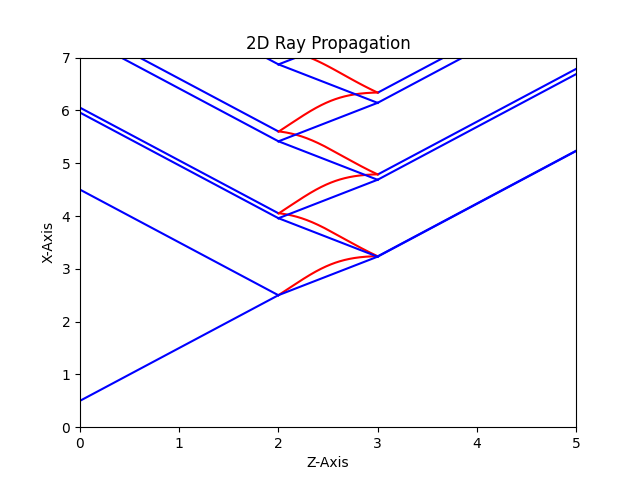
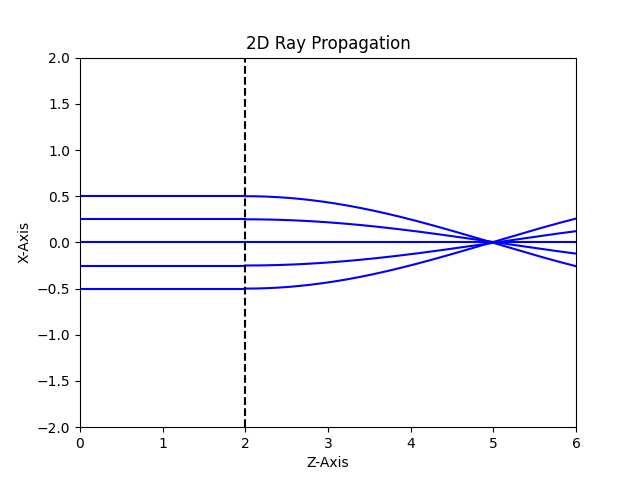
Implementing inhomogeneity for the refractive index

diff --git a/RayClass.py b/RayClass.py
@@ -28,7 +28,7 @@ class Ray:
     # Function for single time step of ray propagation:
     def propagation_step(self, time_step):
         if self.ordinary:
-            rx, ry, rz, pox, poy, poz, E = wp.OrdinaryWavePropagation(self.rx[-1], self.ry[-1], self.rz[-1], self.px[-1], self.py[-1], self.pz[-1], time_step, self.Efield[-1])
+            rx, ry, rz, pox, poy, poz, E = wp.OrdinaryWavePropagation(self.rx[-1], self.ry[-1], self.rz[-1], self.px[-1], self.py[-1], self.pz[-1], self.Mat.a0, self.Mat.a1, self.Mat.a2, time_step, self.Efield[-1])
             self.rx.append(rx)
             self.ry.append(ry)
             self.rz.append(rz)
@@ -37,7 +37,7 @@ class Ray:
             self.pz.append(poz)
             self.Efield.append(E)
         else:
-            rx, ry, rz, pex, pey, pez, E = wp.ExtraordinaryWavePropagation(self.rx[-1], self.ry[-1], self.rz[-1], self.px[-1], self.py[-1], self.pz[-1], self.Mat.no, self.Mat.ne, self.Mat.c0, self.Mat.c1, self.Mat.c2, time_step, self.Efield[-1])
+            rx, ry, rz, pex, pey, pez, E = wp.ExtraordinaryWavePropagation(self.rx[-1], self.ry[-1], self.rz[-1], self.px[-1], self.py[-1], self.pz[-1], self.Mat.a0, self.Mat.a1, self.Mat.a2, self.Mat.b0, self.Mat.b1, self.Mat.b2, self.Mat.c0, self.Mat.c1, self.Mat.c2, time_step, self.Efield[-1])
             self.rx.append(rx)
             self.ry.append(ry)
             self.rz.append(rz)
@@ -52,14 +52,20 @@ class Ray:
         n = hp.getSurfaceNormal(currentMat, self.Mat)
         # Isotropic-Isotropic Interface:
         if self.Mat.iso and currentMat.iso:
-            p_r, p_t, E_r, E_t, S_r, S_t = ia.Isotropic_Isotropic(n, self.Mat.no, currentMat.no, [self.px[-2], self.py[-2], self.pz[-2]], self.Efield[-2])
+            # Find the indices of refraction at the boundary:
+            e_perp, _, _, _ = hp.getOrdinaryIndex(self.rx[-2], self.ry[-2], self.rz[-2], self.Mat.a0, self.Mat.a1, self.Mat.a2)
+            no1 = tf.math.sqrt(e_perp)
+            e_perp, _, _, _ = hp.getOrdinaryIndex(self.rx[-1], self.ry[-1], self.rz[-1], currentMat.a0, currentMat.a1, currentMat.a2)
+            no2 = tf.math.sqrt(e_perp)
+
+            p_r, p_t, E_r, E_t, S_r, S_t = ia.Isotropic_Isotropic(n, no1, no2, [self.px[-2], self.py[-2], self.pz[-2]], self.Efield[-2])
             # Initialize reflected ray:
             # Check for negligible magnitude and/or evanescent wave:
             check = hp.validRay(S_r, p_r)
             if check:
                 p_r = tf.math.real(p_r)
                 ray1 = Ray(self.rx[-2], self.ry[-2], self.rz[-2], p_r[0], p_r[1], p_r[2], S_r, E_r, self.Mat, True)
-                rays.append(ray1)
+                # rays.append(ray1)
             # Initialize transmitted ray:
             check = hp.validRay(S_t, p_t)
             if check:
@@ -69,8 +75,16 @@ class Ray:
             return rays
         # Isotropic-Anisotropic Interface:
         if self.Mat.iso and not(currentMat.iso):
+            # Find the indices of refraction and optical axis at the boundary:
+            e_perp, _, _, _ = hp.getOrdinaryIndex(self.rx[-2], self.ry[-2], self.rz[-2], self.Mat.a0, self.Mat.a1, self.Mat.a2)
+            no1 = tf.math.sqrt(e_perp)
+            e_perp, _, _, _ = hp.getOrdinaryIndex(self.rx[-1], self.ry[-1], self.rz[-1], currentMat.a0, currentMat.a1, currentMat.a2)
+            no2 = tf.math.sqrt(e_perp)
+            e_para, _, _, _ = hp.getExtraordinaryIndex(self.rx[-1], self.ry[-1], self.rz[-1], currentMat.b0, currentMat.b1, currentMat.b2)
+            ne2 = tf.math.sqrt(e_para)
             o2, _, _, _, _, _, _, _, _, _ = hp.getDirector(self.rx[-1], self.ry[-1], self.rz[-1], currentMat.c0, currentMat.c1, currentMat.c2)
-            p_r, p_to, p_te, E_r, E_to, E_te, S_r, S_to, S_te = ia.Isotropic_Anisotropic(n, o2, self.Mat.no, currentMat.no, currentMat.ne, [self.px[-2], self.py[-2], self.pz[-2]], self.Efield[-2])
+
+            p_r, p_to, p_te, E_r, E_to, E_te, S_r, S_to, S_te = ia.Isotropic_Anisotropic(n, o2, no1, no2, ne2, [self.px[-2], self.py[-2], self.pz[-2]], self.Efield[-2])
             # Initialize the reflected ray:
             check = hp.validRay(S_r, p_r)
             if check:
@@ -92,9 +106,16 @@ class Ray:
             return rays
         # Anisotropic-Isotropic Interface:
         if not(self.Mat.iso) and currentMat.iso:
+            # Find the indices of refraction and optical axis at the boundary:
+            e_perp, _, _, _ = hp.getOrdinaryIndex(self.rx[-2], self.ry[-2], self.rz[-2], self.Mat.a0, self.Mat.a1, self.Mat.a2)
+            no1 = tf.math.sqrt(e_perp)
+            e_para, _, _, _ = hp.getExtraordinaryIndex(self.rx[-2], self.ry[-2], self.rz[-2], self.Mat.b0, self.Mat.b1, self.Mat.b2)
+            ne1 = tf.math.sqrt(e_para)
+            e_perp, _, _, _ = hp.getOrdinaryIndex(self.rx[-1], self.ry[-1], self.rz[-1], currentMat.a0, currentMat.a1, currentMat.a2)
+            no2 = tf.math.sqrt(e_perp)
             o1, _, _, _, _, _, _, _, _, _ = hp.getDirector(self.rx[-2], self.ry[-2], self.rz[-2], self.Mat.c0, self.Mat.c1, self.Mat.c2)
-            # Ei = hp.getEfield(self.Mat.no, self.Mat.ne, self.px[-2], self.py[-2], self.pz[-2], o1, self.ordinary)
-            p_ro, p_re, p_t, E_ro, E_re, E_t, S_ro, S_re, S_t = ia.Anisotropic_Isotropic(n, o1, self.Mat.no, self.Mat.ne, currentMat.no, [self.px[-2], self.py[-2], self.pz[-2]], self.Efield[-2])
+            
+            p_ro, p_re, p_t, E_ro, E_re, E_t, S_ro, S_re, S_t = ia.Anisotropic_Isotropic(n, o1, no1, ne1, no2, [self.px[-2], self.py[-2], self.pz[-2]], self.Efield[-2])
             # Initialize the reflected ordinary ray:
             check = hp.validRay(S_ro, p_ro)
             if check:
@@ -116,10 +137,18 @@ class Ray:
             return rays
         # Anisotropic-Anisotropic Interface:
         if not(self.Mat.iso) and not(currentMat.iso):
+            # Find the indices of refraction and optical axis at the boundary:
+            e_perp, _, _, _ = hp.getOrdinaryIndex(self.rx[-2], self.ry[-2], self.rz[-2], self.Mat.a0, self.Mat.a1, self.Mat.a2)
+            no1 = tf.math.sqrt(e_perp)
+            e_para, _, _, _ = hp.getExtraordinaryIndex(self.rx[-2], self.ry[-2], self.rz[-2], self.Mat.b0, self.Mat.b1, self.Mat.b2)
+            ne1 = tf.math.sqrt(e_para)
+            e_perp, _, _, _ = hp.getOrdinaryIndex(self.rx[-1], self.ry[-1], self.rz[-1], currentMat.a0, currentMat.a1, currentMat.a2)
+            no2 = tf.math.sqrt(e_perp)
+            e_para, _, _, _ = hp.getExtraordinaryIndex(self.rx[-1], self.ry[-1], self.rz[-1], currentMat.b0, currentMat.b1, currentMat.b2)
             o1, _, _, _, _, _, _, _, _, _ = hp.getDirector(self.rx[-2], self.ry[-2], self.rz[-2], self.Mat.c0, self.Mat.c1, self.Mat.c2)
             o2, _, _, _, _, _, _, _, _, _ = hp.getDirector(self.rx[-1], self.ry[-1], self.rz[-1], currentMat.c0, currentMat.c1, currentMat.c2)
-            # Ei = hp.getEfield(self.Mat.no, self.Mat.ne, self.px[-2], self.py[-2], self.pz[-2], o1, self.ordinary)
-            p_ro, p_re, p_to, p_te, E_ro, E_re, E_to, E_te, S_ro, S_re, S_to, S_te = ia.Anisotropic_Anisotropic(n, o1, o2, self.Mat.no, self.Mat.ne, currentMat.no, currentMat.ne, [self.px[-2], self.py[-2], self.pz[-2]], self.Efield[-2])
+            
+            p_ro, p_re, p_to, p_te, E_ro, E_re, E_to, E_te, S_ro, S_re, S_to, S_te = ia.Anisotropic_Anisotropic(n, o1, o2, no1, ne1, no2, ne2, [self.px[-2], self.py[-2], self.pz[-2]], self.Efield[-2])
             # Initialize the reflected ordinary ray:
             check = hp.validRay(S_ro, p_ro)
             if check:

diff --git a/OverallAlgorithm.py b/OverallAlgorithm.py
@@ -13,40 +13,60 @@ from MaterialClass import Material
 ## Section 1 - Define System Parameters and Initial Ray ##
 
 # Define a rectangular prism bounding box:
-boundingBox = Material([], 0, 7, 0, 5, 0, 5, [], [], [], [], [])
+boundingBox = Material([], -2, 2, 0, 5, 0, 6, [], [], [], [], [], [], [], [], [])
 
 # Define system materials:
-no1 = tf.constant(1.0)
-no2 = tf.constant(1.2)
-ne2 = tf.constant(1.9)
-c0 = tf.constant(.7854)
-c1 = tf.constant(1.0)
-c2 = tf.constant(0.0)
-no3 = tf.constant(1.0)
+a0_1 = tf.constant(1.0) # no1
+a1_1 = tf.constant(0.0)
+a2_1 = tf.constant(0.0)
+
+a0_2 = tf.constant(3.0) # no2
+a1_2 = tf.constant(0.0)
+a2_2 = tf.constant(-0.4)
+
+
+a0_3 = tf.constant(1.0)
+a1_3 = tf.constant(0.0)
+a2_3 = tf.constant(0.0)
 
 with tf.GradientTape(persistent=True) as tape:
 
-    tape.watch(c0)
-    tape.watch(c1)
+    tape.watch(a0_1)
 
-    mat1 = Material(True, 0, 7, 0, 5, 0, 2, no1, [], [], [], [])
-    mat2 = Material(False, 0, 7, 0, 5, 2, 3, no2, ne2, c0, c1, c2)
-    mat3 = Material(True, 0, 7, 0, 5, 3, 5, no3, [], [], [], [])
+    mat1 = Material(True, -2, 2, 0, 5, 0, 2, a0_1, a1_1, a2_1, [], [], [], [], [], [])
+    mat2 = Material(True, -2, 2, 0, 5, 2, 6, a0_2, a1_2, a2_2, [], [], [], [], [], [])
+    mat3 = Material(True, -2, 2, 0, 5, 3, 6, a0_3, a1_3, a2_3, [], [], [], [], [], [])
 
     # Create list of materials:
-    matList = [mat1, mat2, mat3]
+    matList = [mat1, mat2]
 
     # Create a list of completed rays and in progress rays:
     cpRays = []
     ipRays = []
 
     # Define the incident ray (or multiple rays):
-    incident_position = [tf.constant(0.5), tf.constant(2.5), tf.constant(0.0)]
-    pi = [tf.constant(.7071), tf.constant(0.0), tf.constant(.7071)]
-    Ei = [tf.constant(-0.57735, dtype=tf.complex64), tf.constant(0.57735, dtype=tf.complex64), tf.constant(0.57735, dtype=tf.complex64)]
+    incident_position = [tf.constant(-0.5), tf.constant(2.5), tf.constant(0.0)]
+    pi = [tf.constant(0.00000001), tf.constant(0.0), tf.constant(1.0)]
+    Ei = [tf.constant(0.0, dtype=tf.complex64), tf.constant(1.0, dtype=tf.complex64), tf.constant(0.0, dtype=tf.complex64)]
     incident_material = hp.getMaterialAtCoordinate(matList, incident_position)
     incident_ray = Ray(incident_position[0], incident_position[1], incident_position[2], pi[0], pi[1], pi[2], 1.0, Ei, incident_material, True)
     ipRays.append(incident_ray)
+
+    incident_position2 = [tf.constant(-0.25), tf.constant(2.5), tf.constant(0.0)]
+    incident_ray2 = Ray(incident_position2[0], incident_position2[1], incident_position2[2], pi[0], pi[1], pi[2], 1.0, Ei, incident_material, True)
+    ipRays.append(incident_ray2)
+
+    incident_position3 = [tf.constant(0.0), tf.constant(2.5), tf.constant(0.0)]
+    incident_ray3 = Ray(incident_position3[0], incident_position3[1], incident_position3[2], pi[0], pi[1], pi[2], 1.0, Ei, incident_material, True)
+    ipRays.append(incident_ray3)
+
+    incident_position3 = [tf.constant(0.25), tf.constant(2.5), tf.constant(0.0)]
+    incident_ray4 = Ray(incident_position3[0], incident_position3[1], incident_position3[2], pi[0], pi[1], pi[2], 1.0, Ei, incident_material, True)
+    ipRays.append(incident_ray4)
+
+    incident_position5 = [tf.constant(0.5), tf.constant(2.5), tf.constant(0.0)]
+    incident_ray5 = Ray(incident_position5[0], incident_position5[1], incident_position5[2], pi[0], pi[1], pi[2], 1.0, Ei, incident_material, True)
+    ipRays.append(incident_ray5)
 
     # Initialize a boolean variable to check if the ray is in the bounding box:
     inBounds = True
@@ -89,6 +109,10 @@ for i in range(len(cpRays)):
         plt.plot(cpRays[i].rz, cpRays[i].rx, color='red')
     else:
         plt.plot(cpRays[i].rz, cpRays[i].rx, color='blue')
+
+# Plot vertical lines to indicate boundaries between different media:
+plt.axvline(x=2, color='black', linestyle='--')
+# plt.axvline(x=5, color='red', linestyle='--')
 
 plt.title("2D Ray Propagation")
 plt.xlabel("Z-Axis")

diff --git a/WavePropagation.py b/WavePropagation.py
@@ -3,15 +3,18 @@ import matplotlib.pyplot as plt
 import HelperFunctions as hp
 
 # This function takes ONE STEP in the first-order Runge-Kutta to calculate the next value of the ray path r(t) and wave normal p(t) for an ordinary wave.
-def OrdinaryWavePropagation(rx_init, ry_init, rz_init, pox_init, poy_init, poz_init, time_step, E):
+def OrdinaryWavePropagation(rx_init, ry_init, rz_init, pox_init, poy_init, poz_init, a0, a1, a2, time_step, E):
 
     h = time_step; # time step
     ko = 209.4395102 # For f = 10 GHz
+
+    # Calculate the derivatives of the index of refraction:
+    e_perp, deperp_dx, deperp_dy, deperp_dz = hp.getOrdinaryIndex(rx_init, ry_init, rz_init, a0, a1, a2)
     
     # single step of the first-order Runge-Kutta method:
-    k1 = 0
-    k2 = 0
-    k3 = 0
+    k1 = deperp_dx
+    k2 = deperp_dy
+    k3 = deperp_dz
     k4 = 2*pox_init
     k5 = 2*poy_init
     k6 = 2*poz_init
@@ -30,23 +33,23 @@ def OrdinaryWavePropagation(rx_init, ry_init, rz_init, pox_init, poy_init, poz_i
 
 # This function takes ONE STEP in first-order Runge-Kutta to calculate the next value of the ray path r(t) and wave normal p(t) for an extraordinary wave.
 # Note that currently only explicit mathematical formulas for director profiles are supported.
-def ExtraordinaryWavePropagation(rx_init, ry_init, rz_init, pex_init, pey_init, pez_init, no, ne, c0, c1, c2, time_step, E):
+def ExtraordinaryWavePropagation(rx_init, ry_init, rz_init, pex_init, pey_init, pez_init, a0, a1, a2, b0, b1, b2, c0, c1, c2, time_step, E):
 
     ko = 209.4395102 # For f = 10 GHz
 
-    # Calculate er's from n's:
-    e_para = no ** 2
-    e_perp = ne ** 2
-
+    # Calculates e_perp, e_paralell, and the associated spatial derivatives:
+    e_perp, deperp_dx, deperp_dy, deperp_dz = hp.getOrdinaryIndex(rx_init, ry_init, rz_init, a0, a1, a2)
+    e_para, depara_dx, depara_dy, depara_dz = hp.getExtraordinaryIndex(rx_init, ry_init, rz_init, b0, b1, b2)
+    
     h = time_step # time step
 
     # Calculate the 'local' director (optical axis) and its derivatives:
     d_local, ddx_x, ddx_y, ddx_z, ddy_x, ddy_y, ddy_z, ddz_x, ddz_y, ddz_z = hp.getDirector(rx_init, ry_init, rz_init, c0, c1, c2)
 
     # Calculate the derivatives (k's) for each differential equation:
-    k1 = -2*(e_para - e_perp)*tf.tensordot([pex_init, pey_init, pez_init], d_local, axes=1)*(pex_init*ddx_x + pey_init*ddy_x + pez_init*ddz_x)
-    k2 = -2*(e_para - e_perp)*tf.tensordot([pex_init, pey_init, pez_init], d_local, axes=1)*(pex_init*ddx_y + pey_init*ddy_y + pez_init*ddz_y)
-    k3 = -2*(e_para - e_perp)*tf.tensordot([pex_init, pey_init, pez_init], d_local, axes=1)*(pex_init*ddx_z + pey_init*ddy_z + pez_init*ddz_z)
+    k1 = -2*(e_para - e_perp)*tf.tensordot([pex_init, pey_init, pez_init], d_local, axes=1)*(pex_init*ddx_x + pey_init*ddy_x + pez_init*ddz_x) - e_perp*depara_dx - (e_para + (tf.norm([pex_init, pey_init, pez_init])**2))*deperp_dx
+    k2 = -2*(e_para - e_perp)*tf.tensordot([pex_init, pey_init, pez_init], d_local, axes=1)*(pex_init*ddx_y + pey_init*ddy_y + pez_init*ddz_y) - e_perp*depara_dy - (e_para + (tf.norm([pex_init, pey_init, pez_init])**2))*deperp_dy
+    k3 = -2*(e_para - e_perp)*tf.tensordot([pex_init, pey_init, pez_init], d_local, axes=1)*(pex_init*ddx_z + pey_init*ddy_z + pez_init*ddz_z) - e_perp*depara_dz - (e_para + (tf.norm([pex_init, pey_init, pez_init])**2))*deperp_dz
     k4 = 2*e_perp*pex_init + 2*(e_para - e_perp)*tf.tensordot([pex_init, pey_init, pez_init], d_local, axes=1)*d_local[0]
     k5 = 2*e_perp*pey_init + 2*(e_para - e_perp)*tf.tensordot([pex_init, pey_init, pez_init], d_local, axes=1)*d_local[1]
     k6 = 2*e_perp*pez_init + 2*(e_para - e_perp)*tf.tensordot([pex_init, pey_init, pez_init], d_local, axes=1)*d_local[2]

diff --git a/HelperFunctions.py b/HelperFunctions.py
@@ -82,8 +82,7 @@ def getEfield(no, ne, px, py, pz, o, ordinary):
         E = tf.transpose(tf.linalg.inv(A1)@E_p)
         return E
 
-
-# This function is the analytical functions for the director_profile and its derivatives:
+# This function contains the analytical functions for the director_profile and its derivatives.
 # The derivatives must be analytically calculated by hand.
 def  getDirector(x,y,z, c0, c1, c2):
     theta_d = c0 + c1*z + c2*z**2
@@ -99,6 +98,26 @@ def  getDirector(x,y,z, c0, c1, c2):
     ddz_z = -1*(c1 + 2*c2*z)*tf.math.sin(theta_d)
 
     return director, ddx_x, ddx_y, ddx_z, ddy_x, ddy_y, ddy_z, ddz_x, ddz_y, ddz_z
+
+# These function contains the analytical functions for no and ne and their spatial derivatives.
+# The derivatives must be analytically calculated by hand.
+def getOrdinaryIndex(x,y,z, a0, a1, a2):
+    no = a0 + a1*x + a2*x**2
+    e_perp = no**2
+    dno_dx = a1 + 2*a2*x
+    deperp_dx = 2*no*dno_dx
+    deperp_dy = tf.constant(0.0)
+    deperp_dz = tf.constant(0.0)
+    return e_perp, deperp_dx, deperp_dy, deperp_dz
+
+def getExtraordinaryIndex(x,y,z, b0, b1, b2):
+    ne = b0 + b1*x + b2*x**2
+    e_para = ne**2
+    dne_dx = b1 * 2*b2*x
+    depara_dx = 2*ne*dne_dx
+    depara_dy = tf.constant(0.0)
+    depara_dz = tf.constant(0.0)
+    return e_para, depara_dx, depara_dy, depara_dz
 
 # This function takes in a list of materials and a specified 3D coordinate, then returns the material that corresponds to that coordinate.
 def getMaterialAtCoordinate(materials, coordinate):

diff --git a/test.py b/test.py
@@ -17,7 +17,7 @@ rz_init = tf.constant(1.0)
 # Wave vector:
 px_init = tf.constant(1.0)
 py_init = tf.constant(0.0)
-pz_init = tf.constant(0.0)
+pz_init = tf.constant(2.0)
 
 # Indices of refraction:
 no = tf.constant(1.0)
@@ -30,12 +30,9 @@ c2 = tf.constant(0.1)
 
 E = [tf.constant(0.0, dtype=tf.complex64), tf.constant(1.0, dtype=tf.complex64), tf.constant(0.0, dtype=tf.complex64)]
 
-rx, ry, rz, pox, poy, poz, E = wp.ExtraordinaryWavePropagation(rx_init, ry_init, rz_init, px_init, py_init, pz_init, no, ne, c0, c1, c2, h, E)
+# rx, ry, rz, pox, poy, poz, E = wp.ExtraordinaryWavePropagation(rx_init, ry_init, rz_init, px_init, py_init, pz_init, no, ne, c0, c1, c2, h, E)
 
-print(rx.numpy())
-print(ry.numpy())
-print(rz.numpy())
-print(E.numpy())
+print(tf.norm([px_init, py_init, pz_init]).numpy())
 
 
 

diff --git a/MaterialClass.py b/MaterialClass.py
@@ -5,7 +5,7 @@ import HelperFunctions as hp
 
 # The Material Class:
 class Material:
-    def __init__(self, iso, xmin, xmax, ymin, ymax, zmin, zmax, no, ne, c0, c1, c2):
+    def __init__(self, iso, xmin, xmax, ymin, ymax, zmin, zmax, a0, a1, a2, b0, b1, b2, c0, c1, c2):
         self.iso = iso
         self.xmin = xmin
         self.xmax = xmax
@@ -13,8 +13,12 @@ class Material:
         self.ymax = ymax
         self.zmin = zmin
         self.zmax = zmax
-        self.no = no
-        self.ne = ne
+        self.a0 = a0
+        self.a1 = a1
+        self.a2 = a2
+        self.b0 = b0
+        self.b1 = b1
+        self.b2 = b2
         self.c0 = c0
         self.c1 = c1
         self.c2 = c2
